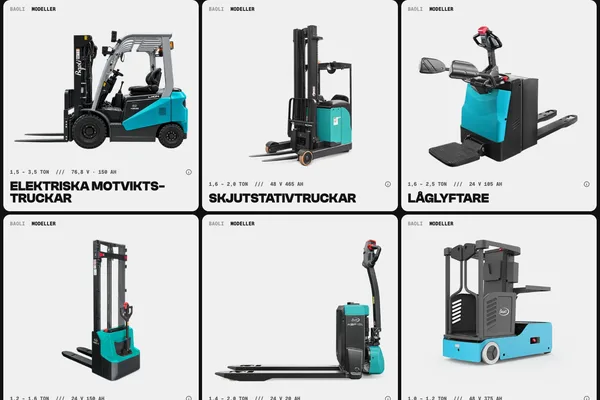
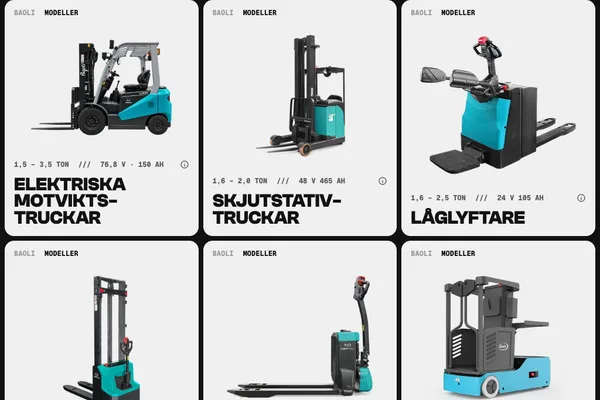
feat: Only Milevas' own blocks in the block picker, with dark thumbnails
The boilerplate's eight blocks stay in the code, and pages that hold one can still be saved, but editors no longer pick them. The thumbnails are taken at 1024 px so their text can be read, and all are dark, also the configurator's, which is light on its page.

Changed region(s): [[0.0, 0.0, 1.0, 1.0]]

diff --git a/src/block-preview/samples.ts b/src/block-preview/samples.ts
@@ -1,67 +1,22 @@
 import type { LayoutBlock } from "@/payload/blocks";
 
-const text = (value: string) => ({
-  type: "text",
-  version: 1,
-  text: value,
-  detail: 0,
-  format: 0,
-  mode: "normal",
-  style: "",
-});
-const node = { direction: null, format: "", indent: 0, version: 1 };
-const richText = (...paragraphs: string[]) => ({
-  root: {
-    ...node,
-    type: "root",
-    children: paragraphs.map((paragraph) => ({
-      ...node,
-      type: "paragraph",
-      textFormat: 0,
-      children: [text(paragraph)],
-    })),
-  },
-});
-
-const button = { link: { type: "external", url: "#", label: "Bygg din truck" } };
-const body = "Kort exempeltext som visar hur blocket ser ut med innehåll.";
-
 /**
- * Content for the blocks no published page uses, so that every block in the picker has a picture.
- * Only the thumbnails use this. `image` is a published image, populated as on a page.
+ * Content for the picker's blocks no published page uses, so that each has a picture. Only the
+ * thumbnails use this. `image` is a published image, populated as on a page.
  */
 export function sampleBlock(blockType: string, image: unknown): LayoutBlock | null {
-  const media = { relationTo: "images", value: image };
   const samples: Record<string, Record<string, unknown>> = {
     articleList: {
-      heading: "Lista",
-      items: ["Första raden", "Andra raden", "Tredje raden", "Fjärde raden", "Femte raden"].map(
-        (row) => ({ text: row }),
-      ),
+      heading: "Att mäta upp före köpet:",
+      items: [
+        "Bredden på den smalaste gången",
+        "Högsta hyllplanet",
+        "Tyngsta lasten och dess mått",
+        "Underlaget där trucken ska köra",
+        "Antal timmar i drift per dag",
+      ].map((row) => ({ text: row })),
       image,
       placement: "left",
-    },
-    hero: { headline: "Hero", summary: body, media },
-    richText: { content: richText("Fritext", body) },
-    media: { media, caption: "Bildtext", layout: "full" },
-    gallery: { images: [image, image, image, image] },
-    cards: {
-      heading: "Kortlista",
-      items: ["Första", "Andra", "Tredje"].map((title) => ({ title, text: body })),
-    },
-    faq: {
-      heading: "Vanliga frågor",
-      items: ["Första frågan?", "Andra frågan?", "Tredje frågan?"].map((question) => ({
-        question,
-        answer: body,
-      })),
-    },
-    callToAction: { title: "Uppmaning", text: body, button },
-    columns: {
-      columns: [
-        { content: [{ blockType: "richText", content: richText("Kolumn", body) }] },
-        { content: [{ blockType: "media", media, layout: "full" }] },
-      ],
     },
   };
   const sample = samples[blockType];

diff --git a/src/payload/collections/Pages/config.ts b/src/payload/collections/Pages/config.ts
@@ -2,7 +2,7 @@ import type { CollectionConfig, Where } from "payload";
 import { ADMIN_GROUPS } from "@/payload/admin-groups.ts";
 import { authenticatedOrPublished } from "../../access/authenticatedOrPublished.ts";
 import { isAuthenticated } from "../../access/isAuthenticated.ts";
-import { layoutBlocks } from "../../blocks/index.ts";
+import { layoutBlocks, pickerBlockSlugs } from "../../blocks/index.ts";
 import { slugField } from "../../fields/slug.ts";
 import { populatePublishedAt } from "../../hooks/populatePublishedAt.ts";
 import { pageAddress } from "../../utilities/page-path.ts";
@@ -110,6 +110,13 @@ export const Pages: CollectionConfig = {
       labels: { singular: "Block", plural: "Block" },
       type: "blocks",
       blocks: layoutBlocks,
+      // Blocks already on the page stay valid, so that older content can still be saved.
+      filterOptions: ({ data }) => [
+        ...new Set([
+          ...pickerBlockSlugs,
+          ...((data?.layout ?? []) as { blockType: string }[]).map((block) => block.blockType),
+        ]),
+      ],
       localized: false,
     },
   ],

diff --git a/src/payload/blocks/definitions.ts b/src/payload/blocks/definitions.ts
@@ -80,7 +80,8 @@ function renderTypedBlock<TType extends LayoutBlock["blockType"]>(
   };
 }
 
-export const layoutBlocks: Block[] = withBlockThumbnails([
+/** The boilerplate's blocks: pages can hold them, but editors do not pick them (`pickerBlockSlugs`). */
+const boilerplateBlocks: Block[] = [
   HeroBlock,
   RichTextBlock,
   MediaBlock,
@@ -89,6 +90,10 @@ export const layoutBlocks: Block[] = withBlockThumbnails([
   FAQBlock,
   CallToActionBlock,
   ColumnsBlock,
+];
+
+/** The blocks editors pick from, each with its thumbnail (`docs/block-thumbnails.md`). */
+const pickerBlocks: Block[] = withBlockThumbnails([
   ConfiguratorBlock,
   MilevasHeroBlock,
   TextColumnsBlock,
@@ -106,6 +111,10 @@ export const layoutBlocks: Block[] = withBlockThumbnails([
 
   // sl-cli:layout-blocks (do not remove)
 ]);
+
+export const layoutBlocks: Block[] = [...boilerplateBlocks, ...pickerBlocks];
+
+export const pickerBlockSlugs = pickerBlocks.map((block) => block.slug);
 
 export const blockComponents = {
   hero: renderTypedBlock("hero", (props) => HeroBlockComponent(props)),

diff --git a/src/app/(frontend)/[locale]/preview-block/[blockType]/page.tsx b/src/app/(frontend)/[locale]/preview-block/[blockType]/page.tsx
@@ -1,6 +1,6 @@
 import type { Metadata } from "next";
 import { notFound } from "next/navigation";
-import { lightBackgroundBlocks } from "@/block-preview/catalog";
+import { darkPreviewBlocks } from "@/block-preview/catalog";
 import { findBlockPreviewSource } from "@/block-preview/find-source";
 import { PageLayout } from "@/components/cms/page-layout";
 import { isTypedLocale } from "@/i18n/routing";
@@ -36,10 +36,9 @@ export default async function BlockPreview({ params }: Props) {
   return (
     <div data-block-preview={blockType} id="block-preview-capture">
       <style>{hideChrome}</style>
-      <PageLayout
-        background={lightBackgroundBlocks.has(blockType) ? "light" : "dark"}
-        layout={[block]}
-      />
+      <div className={darkPreviewBlocks.has(blockType) ? "mode-dark" : undefined}>
+        <PageLayout layout={[block]} />
+      </div>
     </div>
   );
 }

diff --git a/src/block-preview/catalog.ts b/src/block-preview/catalog.ts
@@ -4,15 +4,5 @@ export const blockPreviewPages: Record<string, string> = {
   textBoxinfo: "home",
 };
 
-/** Blocks shown on a Light grey page: the boilerplate's dark text, and the configurator. */
-export const lightBackgroundBlocks = new Set([
-  "hero",
-  "richText",
-  "media",
-  "gallery",
-  "cards",
-  "faq",
-  "callToAction",
-  "columns",
-  "configurator",
-]);
+/** Blocks that are light on their page: dark in the picker, so that all the pictures match. */
+export const darkPreviewBlocks = new Set(["configurator"]);

diff --git a/src/payload/blocks/index.ts b/src/payload/blocks/index.ts
@@ -1,3 +1,3 @@
 export type { LayoutBlock, LayoutBlockRenderer } from "./definitions.ts";
-export { blockComponents, layoutBlocks } from "./definitions.ts";
+export { blockComponents, layoutBlocks, pickerBlockSlugs } from "./definitions.ts";
 export { RenderBlocks } from "./RenderBlocks.tsx";

diff --git a/docs/block-thumbnails.md b/docs/block-thumbnails.md
@@ -1,14 +1,16 @@
 # Blockbilder i Payload
 
-Blockväljaren i Payload visar en förhandsbild (600 × 400 WebP) för varje block. Bilderna är
-skärmdumpar av blockets riktiga komponent vid 1440 px bredd. De ligger i
+Blockväljaren i Payload visar en förhandsbild (600 × 400 WebP) för varje block. Boilerplatens block
+visas inte där (`pickerBlockSlugs`), men är kvar i koden och går att spara på sidor som redan har dem.
+Bilderna är skärmdumpar av blockets riktiga komponent vid 1024 px bredd, så att texten går att läsa. De ligger i
 `public/block-thumbnails/<slug>.webp` och kopplas in med `withBlockThumbnails` i
 `src/payload/blocks/definitions.ts`.
 
 Routen `/preview-block/<slug>` renderar ett enda block utan navigation och sidfot. Blocket hämtas
 från den första publicerade sidan med blocket, sorterad på slug, eller från sidan som anges i
 `src/block-preview/catalog.ts`. Block som ingen sida använder får exempelinnehåll från
-`src/block-preview/samples.ts`. Routen finns bara i utvecklingsläge eller med
+`src/block-preview/samples.ts`. Alla bilder är mörka; `darkPreviewBlocks` gäller block som är ljusa
+på sin sida, som konfiguratorn. Routen finns bara i utvecklingsläge eller med
 `BLOCK_PREVIEW_ENABLED=true`, och den är `noindex`.
 
 ## Generera och kontrollera

diff --git a/docs/blocks-backlog.md b/docs/blocks-backlog.md
@@ -19,7 +19,7 @@ Beslutat 2026-10-02: full bredd med `grid/margin` för allt innehåll, även hea
 - **Navigation och Footer** är egna komponenter som Header- och Footer-globalerna matar sedan
   2026-10-05 (`src/payload/globals/*/Component.tsx`).
 - **Boilerplatens block** (Hero, Cards, CallToAction, FAQ, Columns, Gallery, Media och RichText) är
-  kvar. Att byta deras utseende ger konflikter vid nästa boilerplate-uppdatering, så Milevas block är
+  kvar i koden, men visas inte i blockväljaren (2026-11-05). Att byta deras utseende ger konflikter vid nästa boilerplate-uppdatering, så Milevas block är
   egna.
 
 ## Blocken, i Figmas ordning
